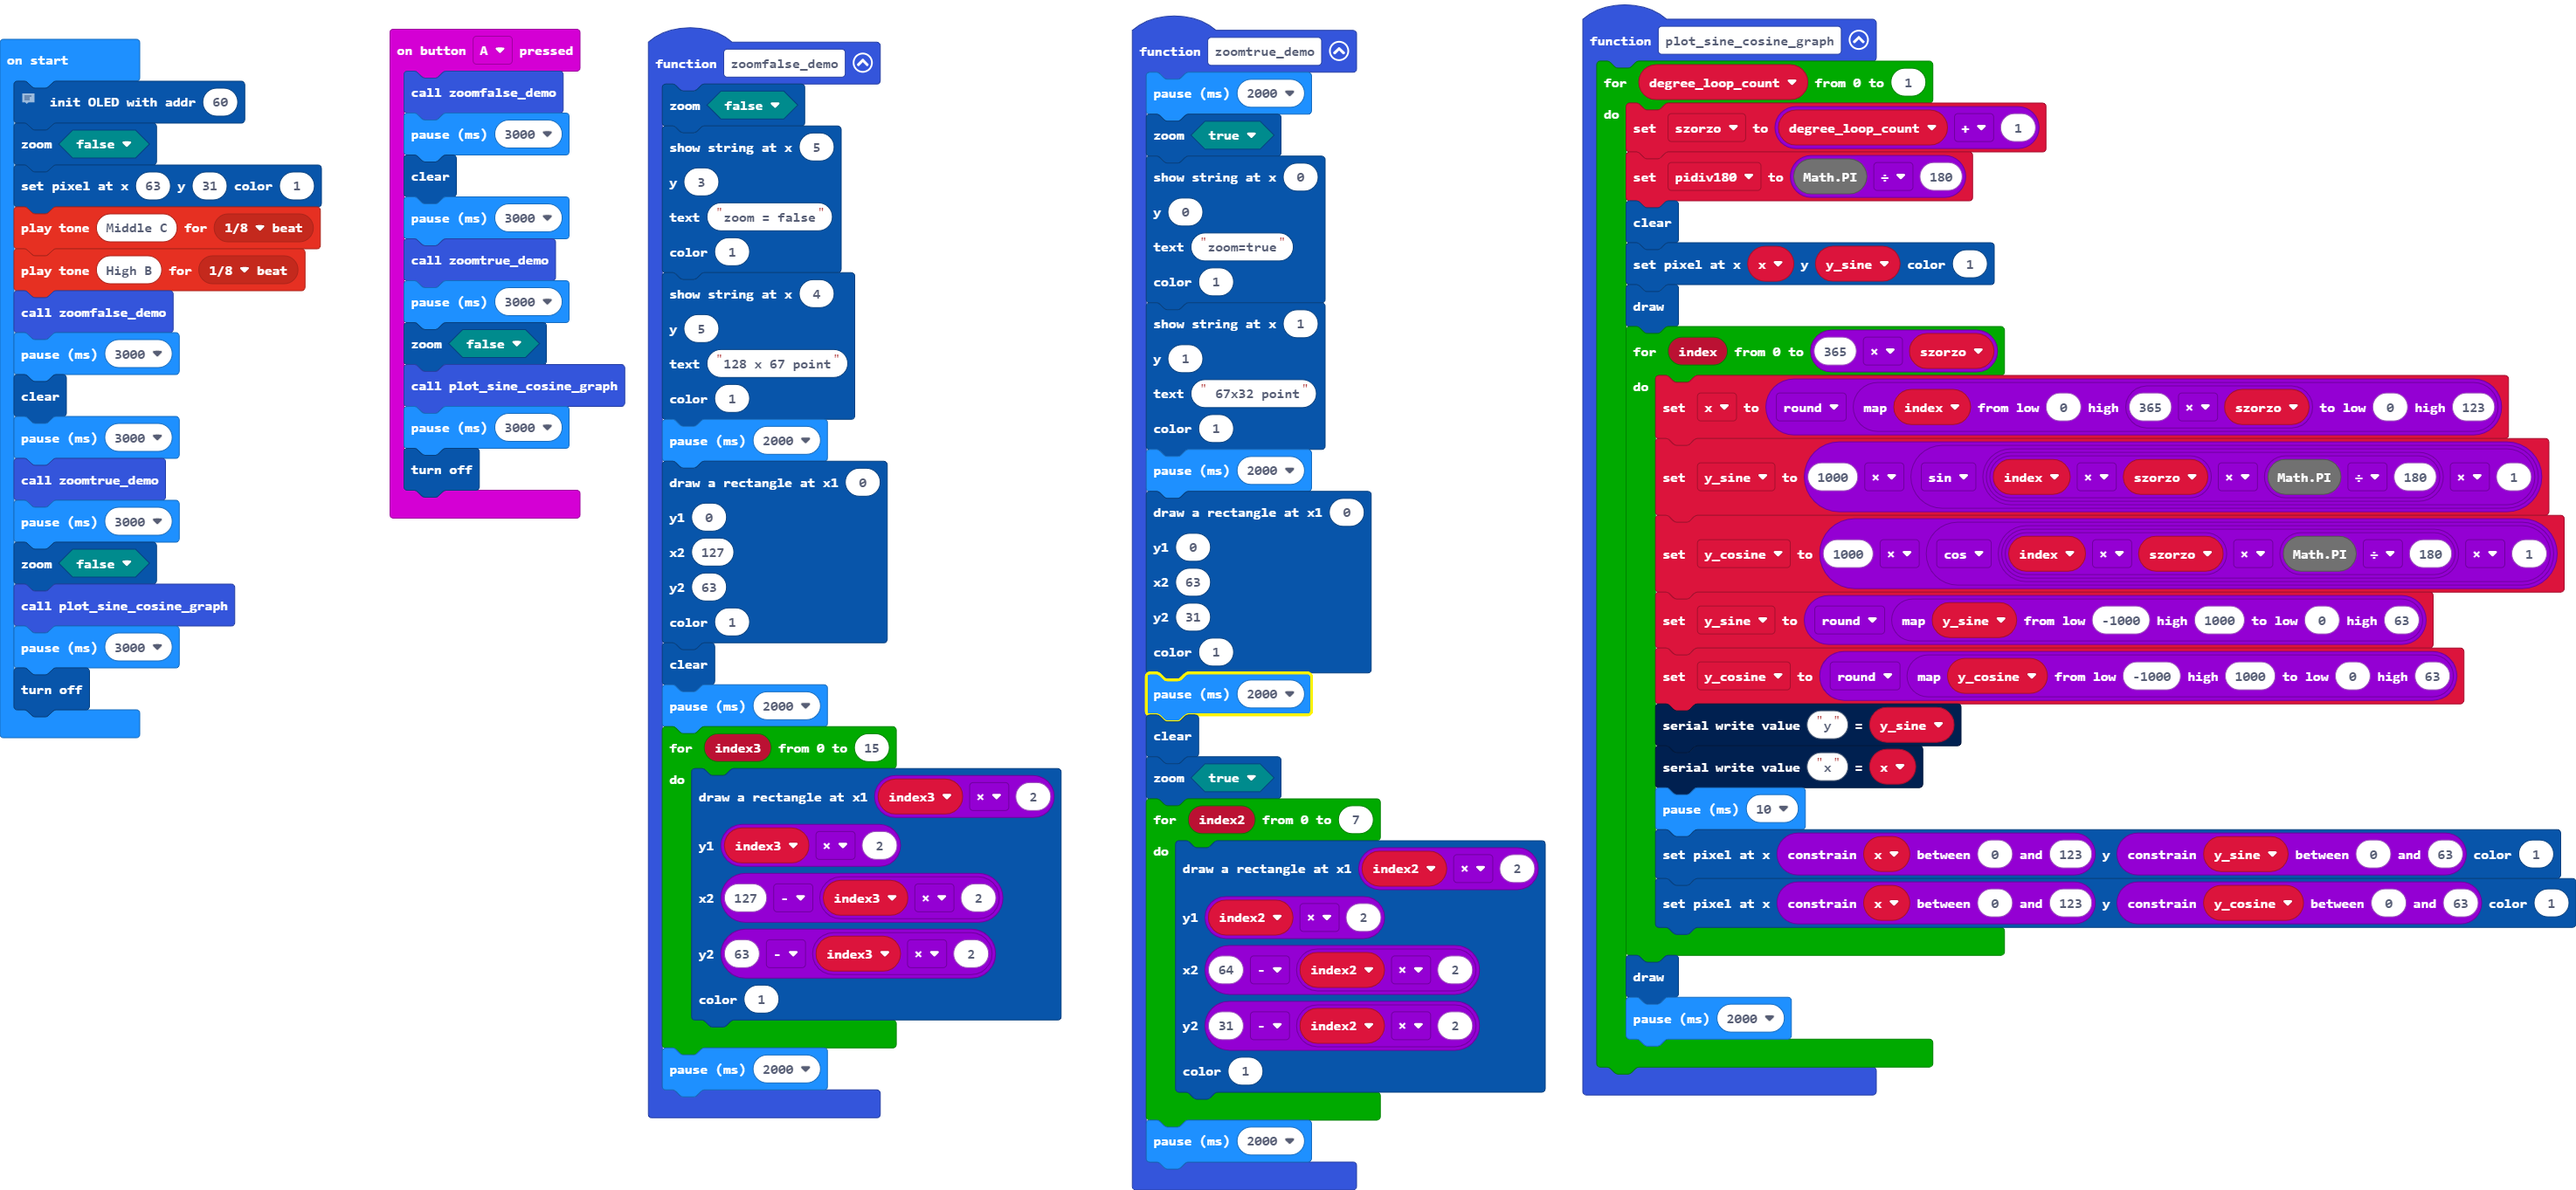
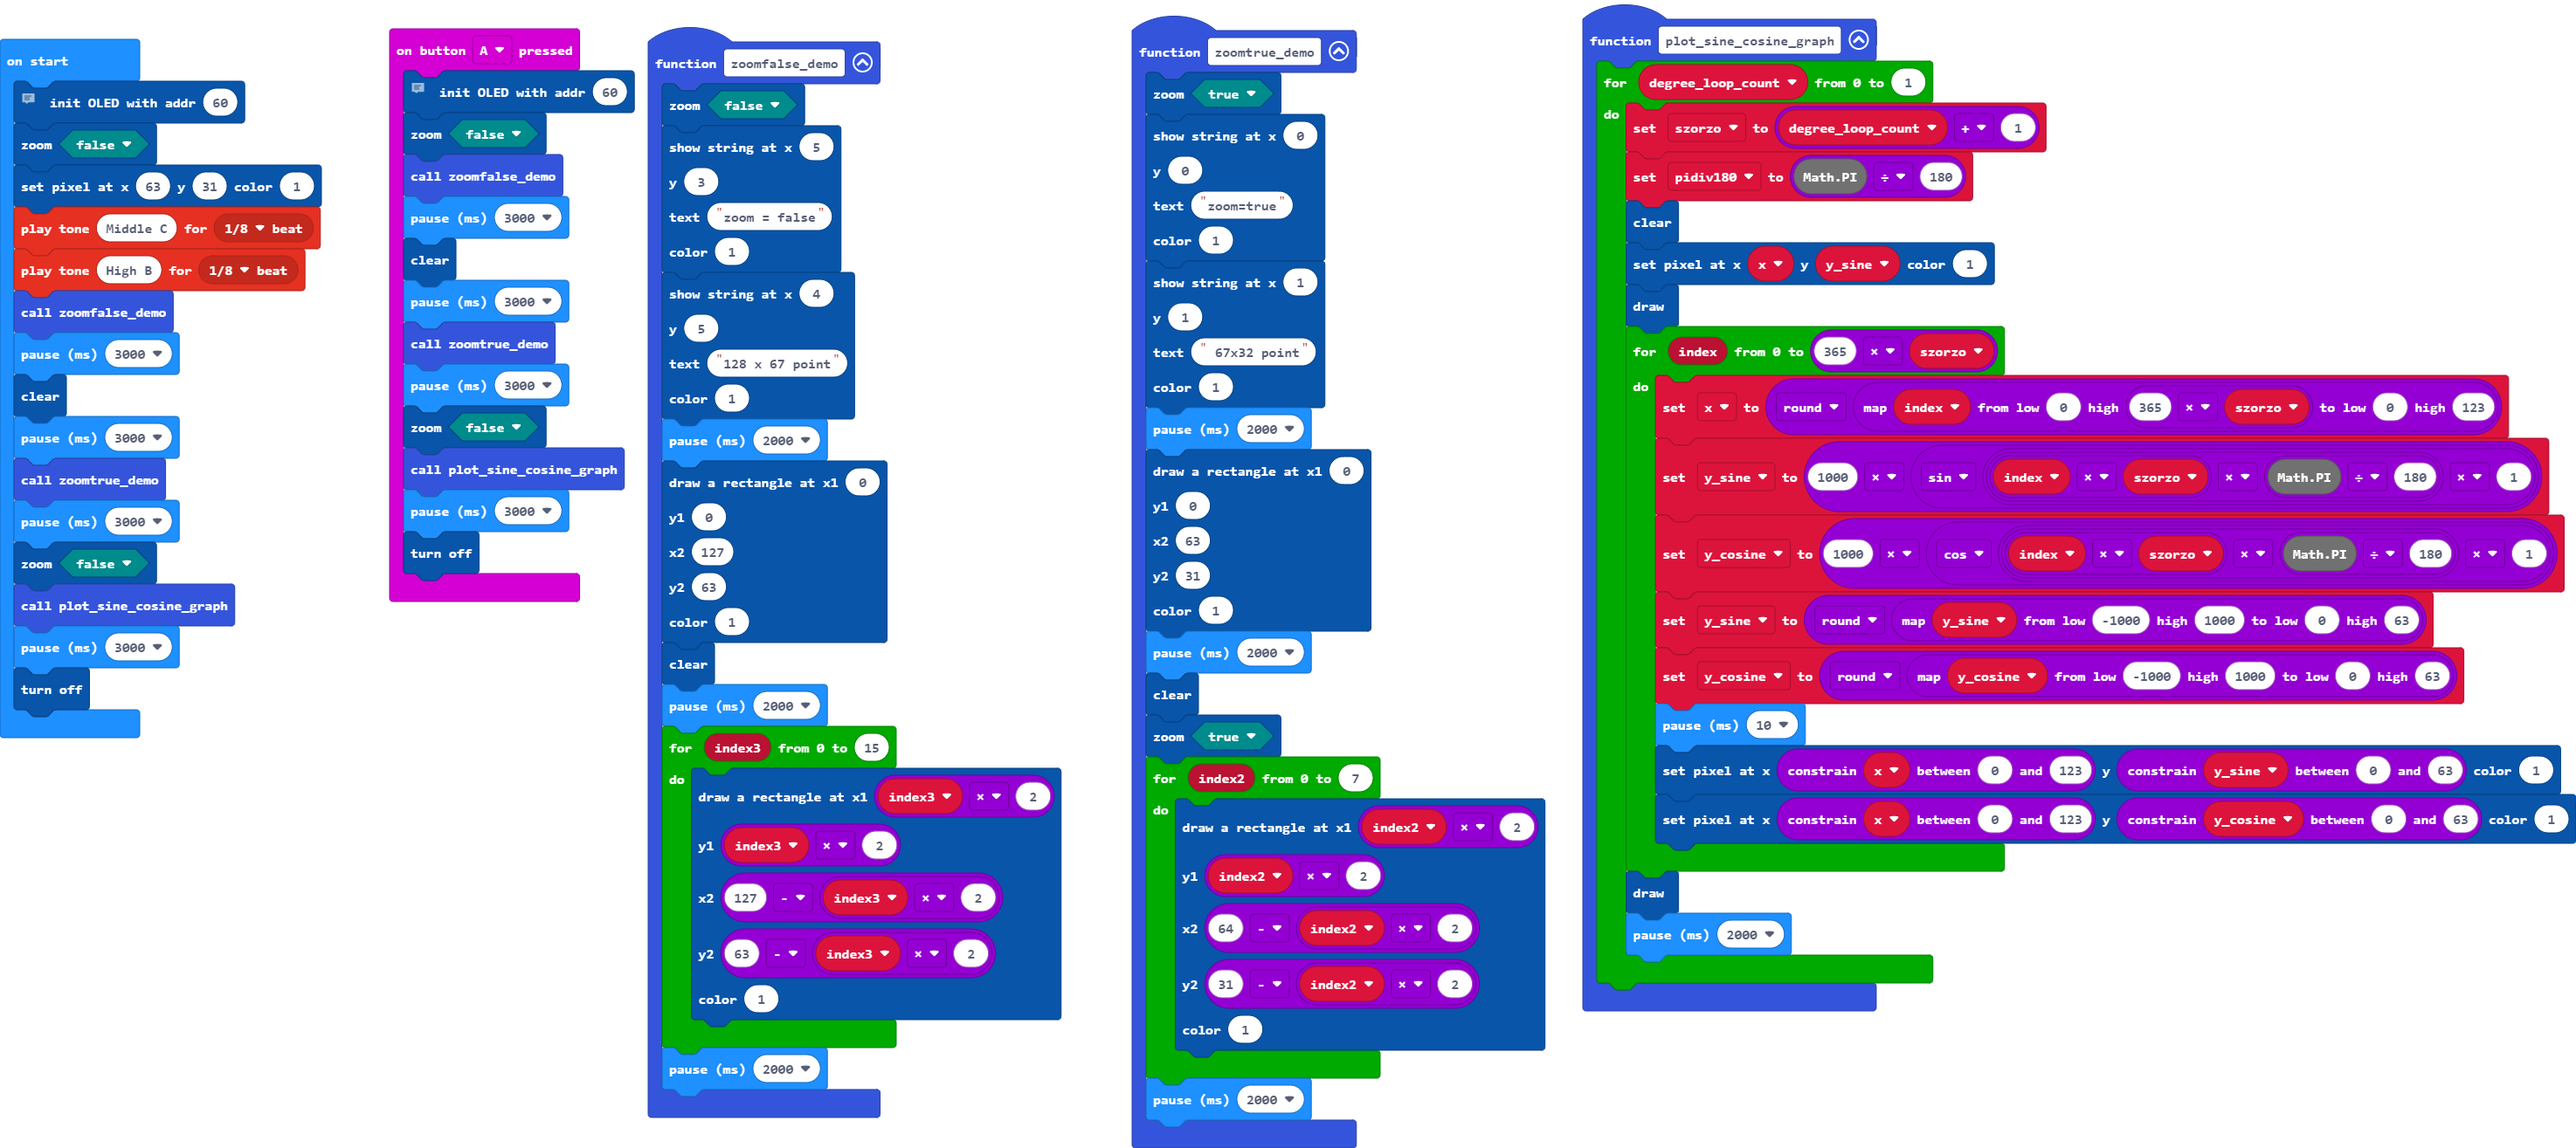
Update main.blocks, main.ts

Changed region(s): [[0.1248, 0.0312, 1.0, 0.9977], [0.0, 0.0312, 0.1248, 0.6548]]

diff --git a/main.ts b/main.ts
@@ -1,4 +1,24 @@
 input.onButtonPressed(Button.A, function () {
+    // OLED12864_I2C Extension
+    // G   V   SCL   SDA
+    // GND 5V   P19   P20
+    // Graph
+    // Zoom = false:128x64 point
+    // left-top corner:0,0
+    // left-bottom corner:0,63
+    // rigth-top corner:127,0
+    // rigth-bottom corner:127,63
+    // Char 25x8
+    // 
+    // Zoom = true
+    // left-top corner:0,0
+    // left-bottom corner:0,31
+    // rigth-top corner:63,0
+    // rigth-bottom corner:63,31
+    // Char 13x4
+    // Only ASCII characters chr(0) to chr(127)
+    OLED12864_I2C.init(60)
+    OLED12864_I2C.zoom(false)
     zoomfalse_demo()
     basic.pause(3000)
     OLED12864_I2C.clear()
@@ -23,8 +43,6 @@ function plot_sine_cosine_graph () {
             y_cosine = 1000 * Math.cos(index * szorzo * (Math.PI / 180) * 1)
             y_sine = Math.round(Math.map(y_sine, -1000, 1000, 0, 63))
             y_cosine = Math.round(Math.map(y_cosine, -1000, 1000, 0, 63))
-            serial.writeValue("y", y_sine)
-            serial.writeValue("x", x)
             basic.pause(10)
             OLED12864_I2C.pixel(Math.constrain(x, 0, 123), Math.constrain(y_sine, 0, 63), 1)
             OLED12864_I2C.pixel(Math.constrain(x, 0, 123), Math.constrain(y_cosine, 0, 63), 1)
@@ -34,7 +52,6 @@ function plot_sine_cosine_graph () {
     }
 }
 function zoomtrue_demo () {
-    basic.pause(2000)
     OLED12864_I2C.zoom(true)
     OLED12864_I2C.showString(
     0,
